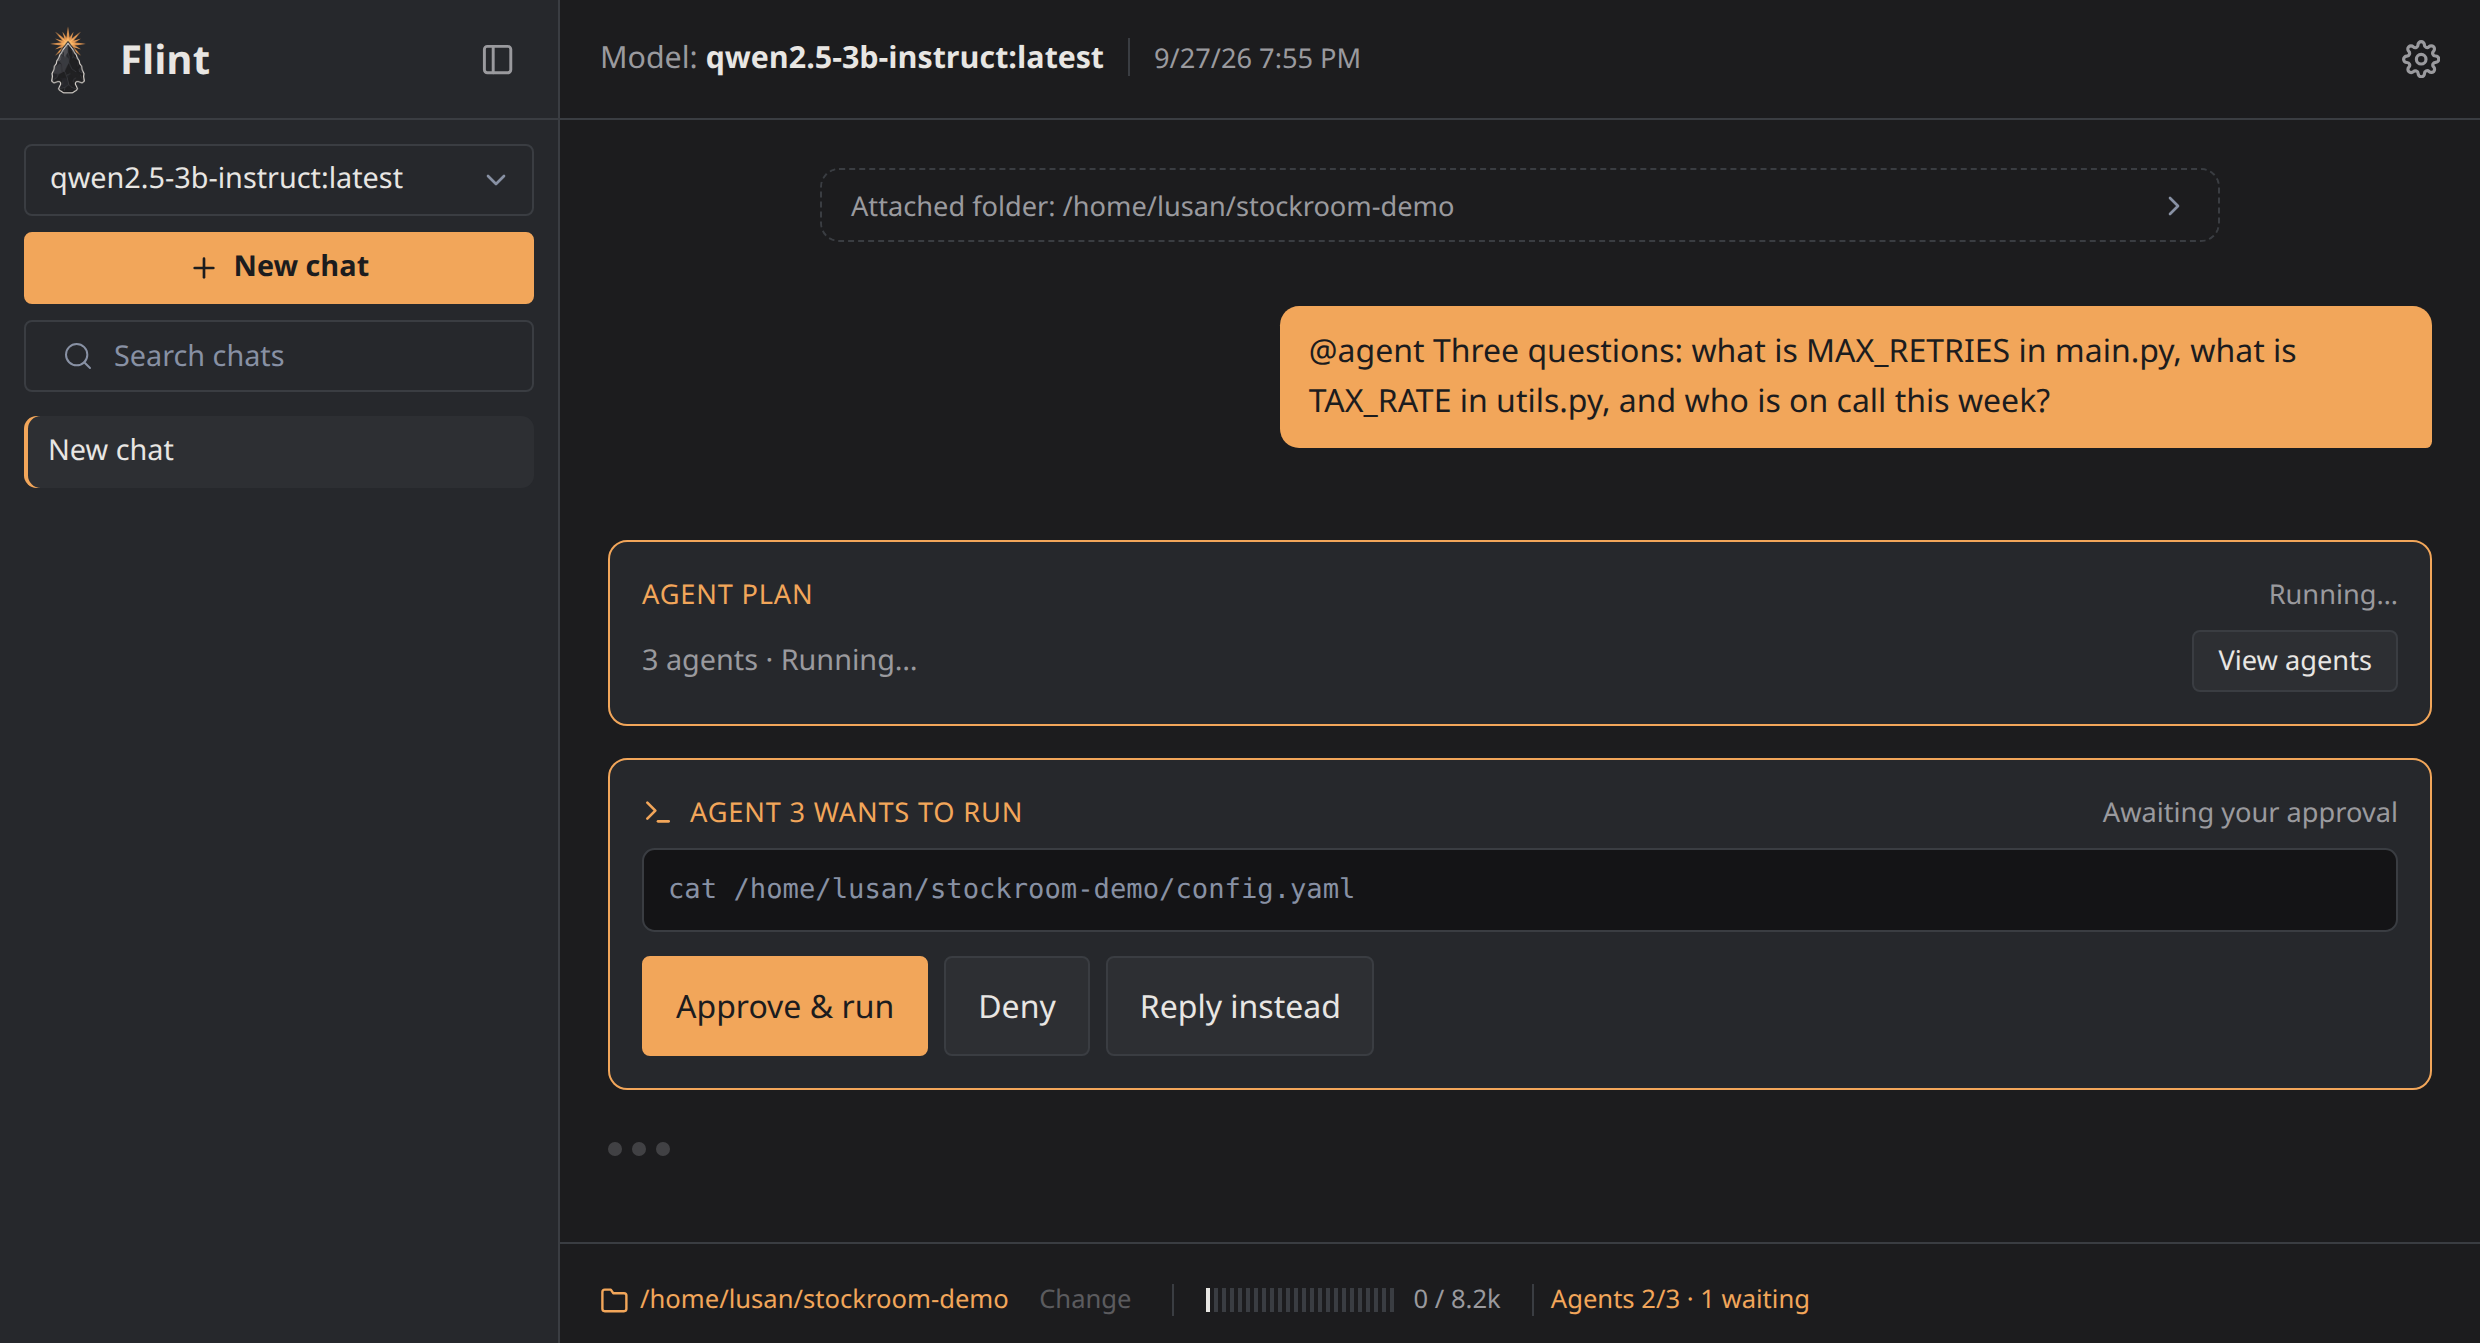
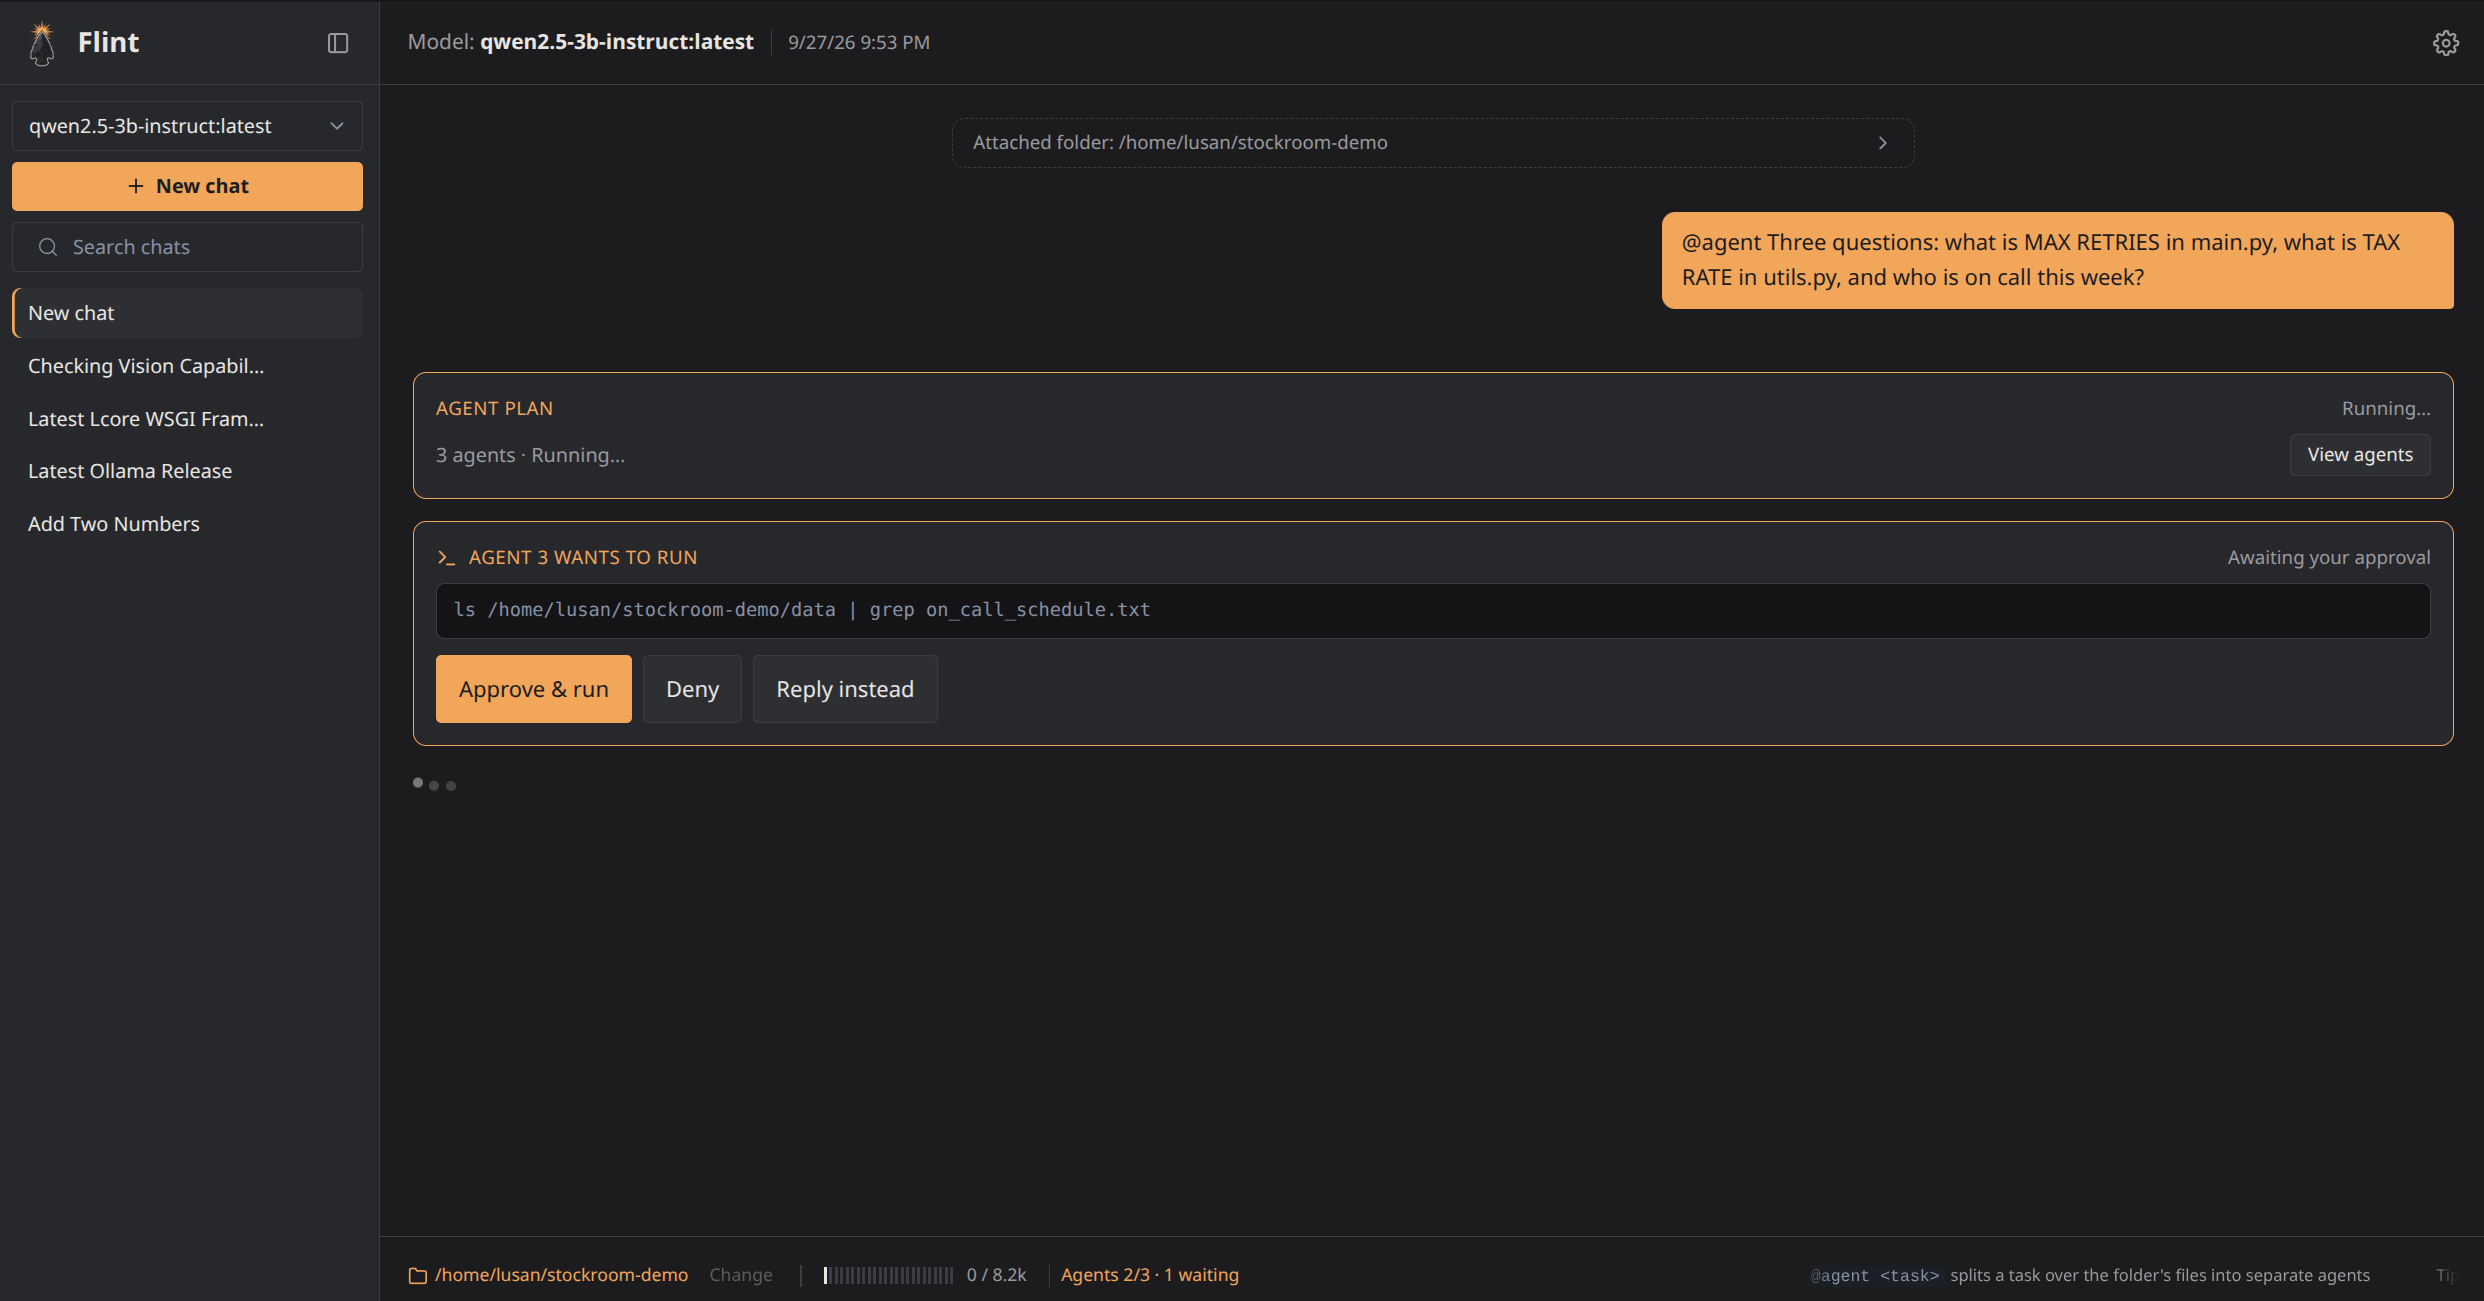
Use agent-approval as primary hero image and remove redundant Screenshots from README

diff --git a/docs/index.html b/docs/index.html
@@ -158,7 +158,7 @@ subtasks, each run by its own agent with a clean context window, and
 writes one answer from their results. You approve the plan and every
 command an agent asks to run.
 (<a href="features.html#agents-agent">features</a>, <a href="changelog.html">changelog</a>)</p>
-<p><img alt="A shell command proposed by the model, waiting for Approve, Deny or Reply instead" src="images/hero-approval.png"/></p>
+<p><img alt="Agent 3 asks to run cat config.yaml in the main chat, with Approve, Deny and Reply instead; the label reads Agents 2/3, 1 waiting" src="images/agent-approval.png"/></p>
 <h2 id="quick-start">Quick start<a aria-label="Link to Quick start" class="header-anchor" href="#quick-start">#</a></h2>
 <p>You need <a href="https://ollama.com">Ollama</a> running with a model pulled, for
 example <code>ollama pull qwen2.5:3b</code>.</p>

diff --git a/README.md b/README.md
@@ -26,7 +26,7 @@ command an agent asks to run.
 ([agents](docs/features.html#agents-agent), [changelog](docs/changelog.html))
 
 <p align="center">
-  <img src="docs/images/hero-approval.png" alt="A shell command proposed by the model, waiting for Approve, Deny or Reply instead" width="900">
+  <img src="docs/images/agent-approval.png" alt="Agent 3 asks to run cat config.yaml in the main chat, with Approve, Deny and Reply instead; the label reads Agents 2/3, 1 waiting" width="900">
 </p>
 
 ## Quick start
@@ -133,26 +133,6 @@ becoming heavy itself.
   scaffolding by switching it off. ([experiments](docs/experiments.html),
   [benchmark](docs/benchmark.html))
 
-## Screenshots
-
-<p align="center">
-  <img src="docs/images/agent-plan.png" alt="An @agent plan: three subtasks with their files, one left to look through the folder itself, waiting for Run or Discard" width="900">
-</p>
-<p align="center">
-  <img src="docs/images/agent-approval.png" alt="Agent 3 asks to run cat config.yaml in the main chat, with Approve, Deny and Reply instead; the label reads Agents 2/3, 1 waiting" width="900">
-</p>
-<p align="center">
-  <img src="docs/images/agent-answer.png" alt="The combined answer in the chat, under a From 3 agents block listing what each agent found" width="900">
-</p>
-<p align="center">
-  <img src="docs/images/agents-window.png" alt="The agents window: each agent with its task and inputs, and Agent 3's transcript with the commands it ran and their output" width="900">
-</p>
-<p align="center">
-  <img src="docs/images/web-query.png" alt="An @web question answered from three ranked sources, listed above the answer" width="900">
-</p>
-<p align="center">
-  <img src="docs/images/memory.png" alt="@memory save marks where a memory was saved; @memory recalls it in the chat" width="900">
-</p>
 
 ## Who it's for
 
